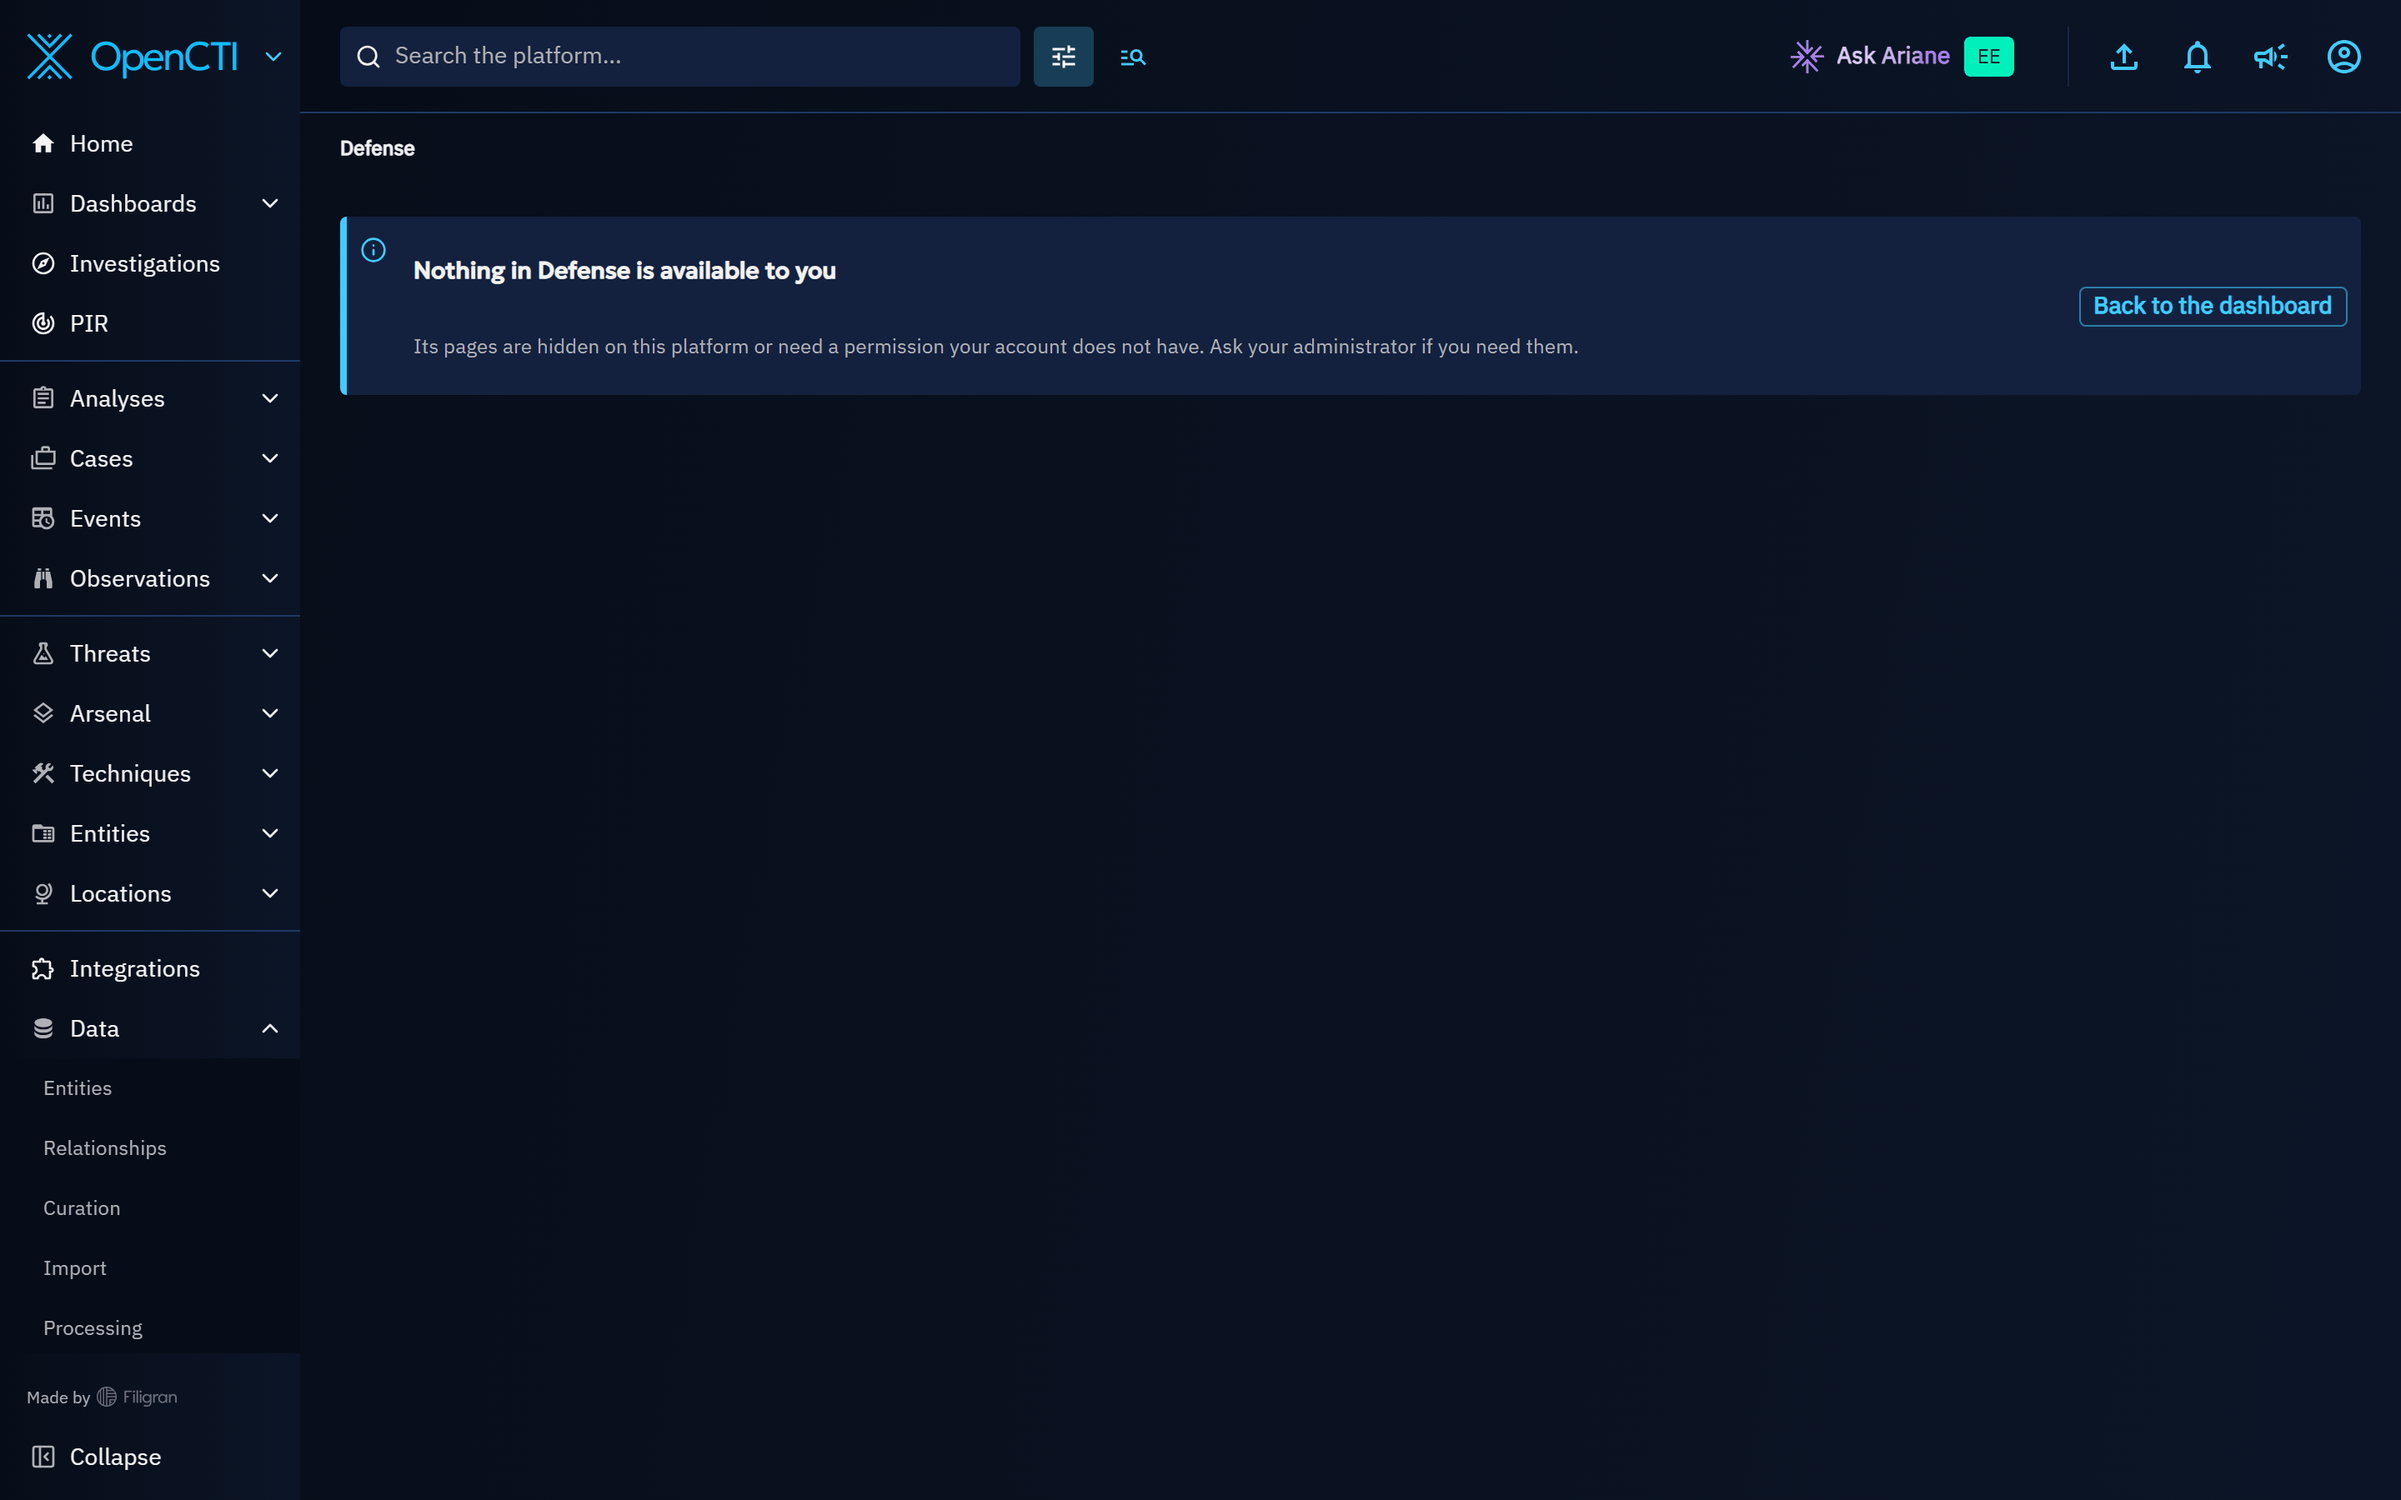
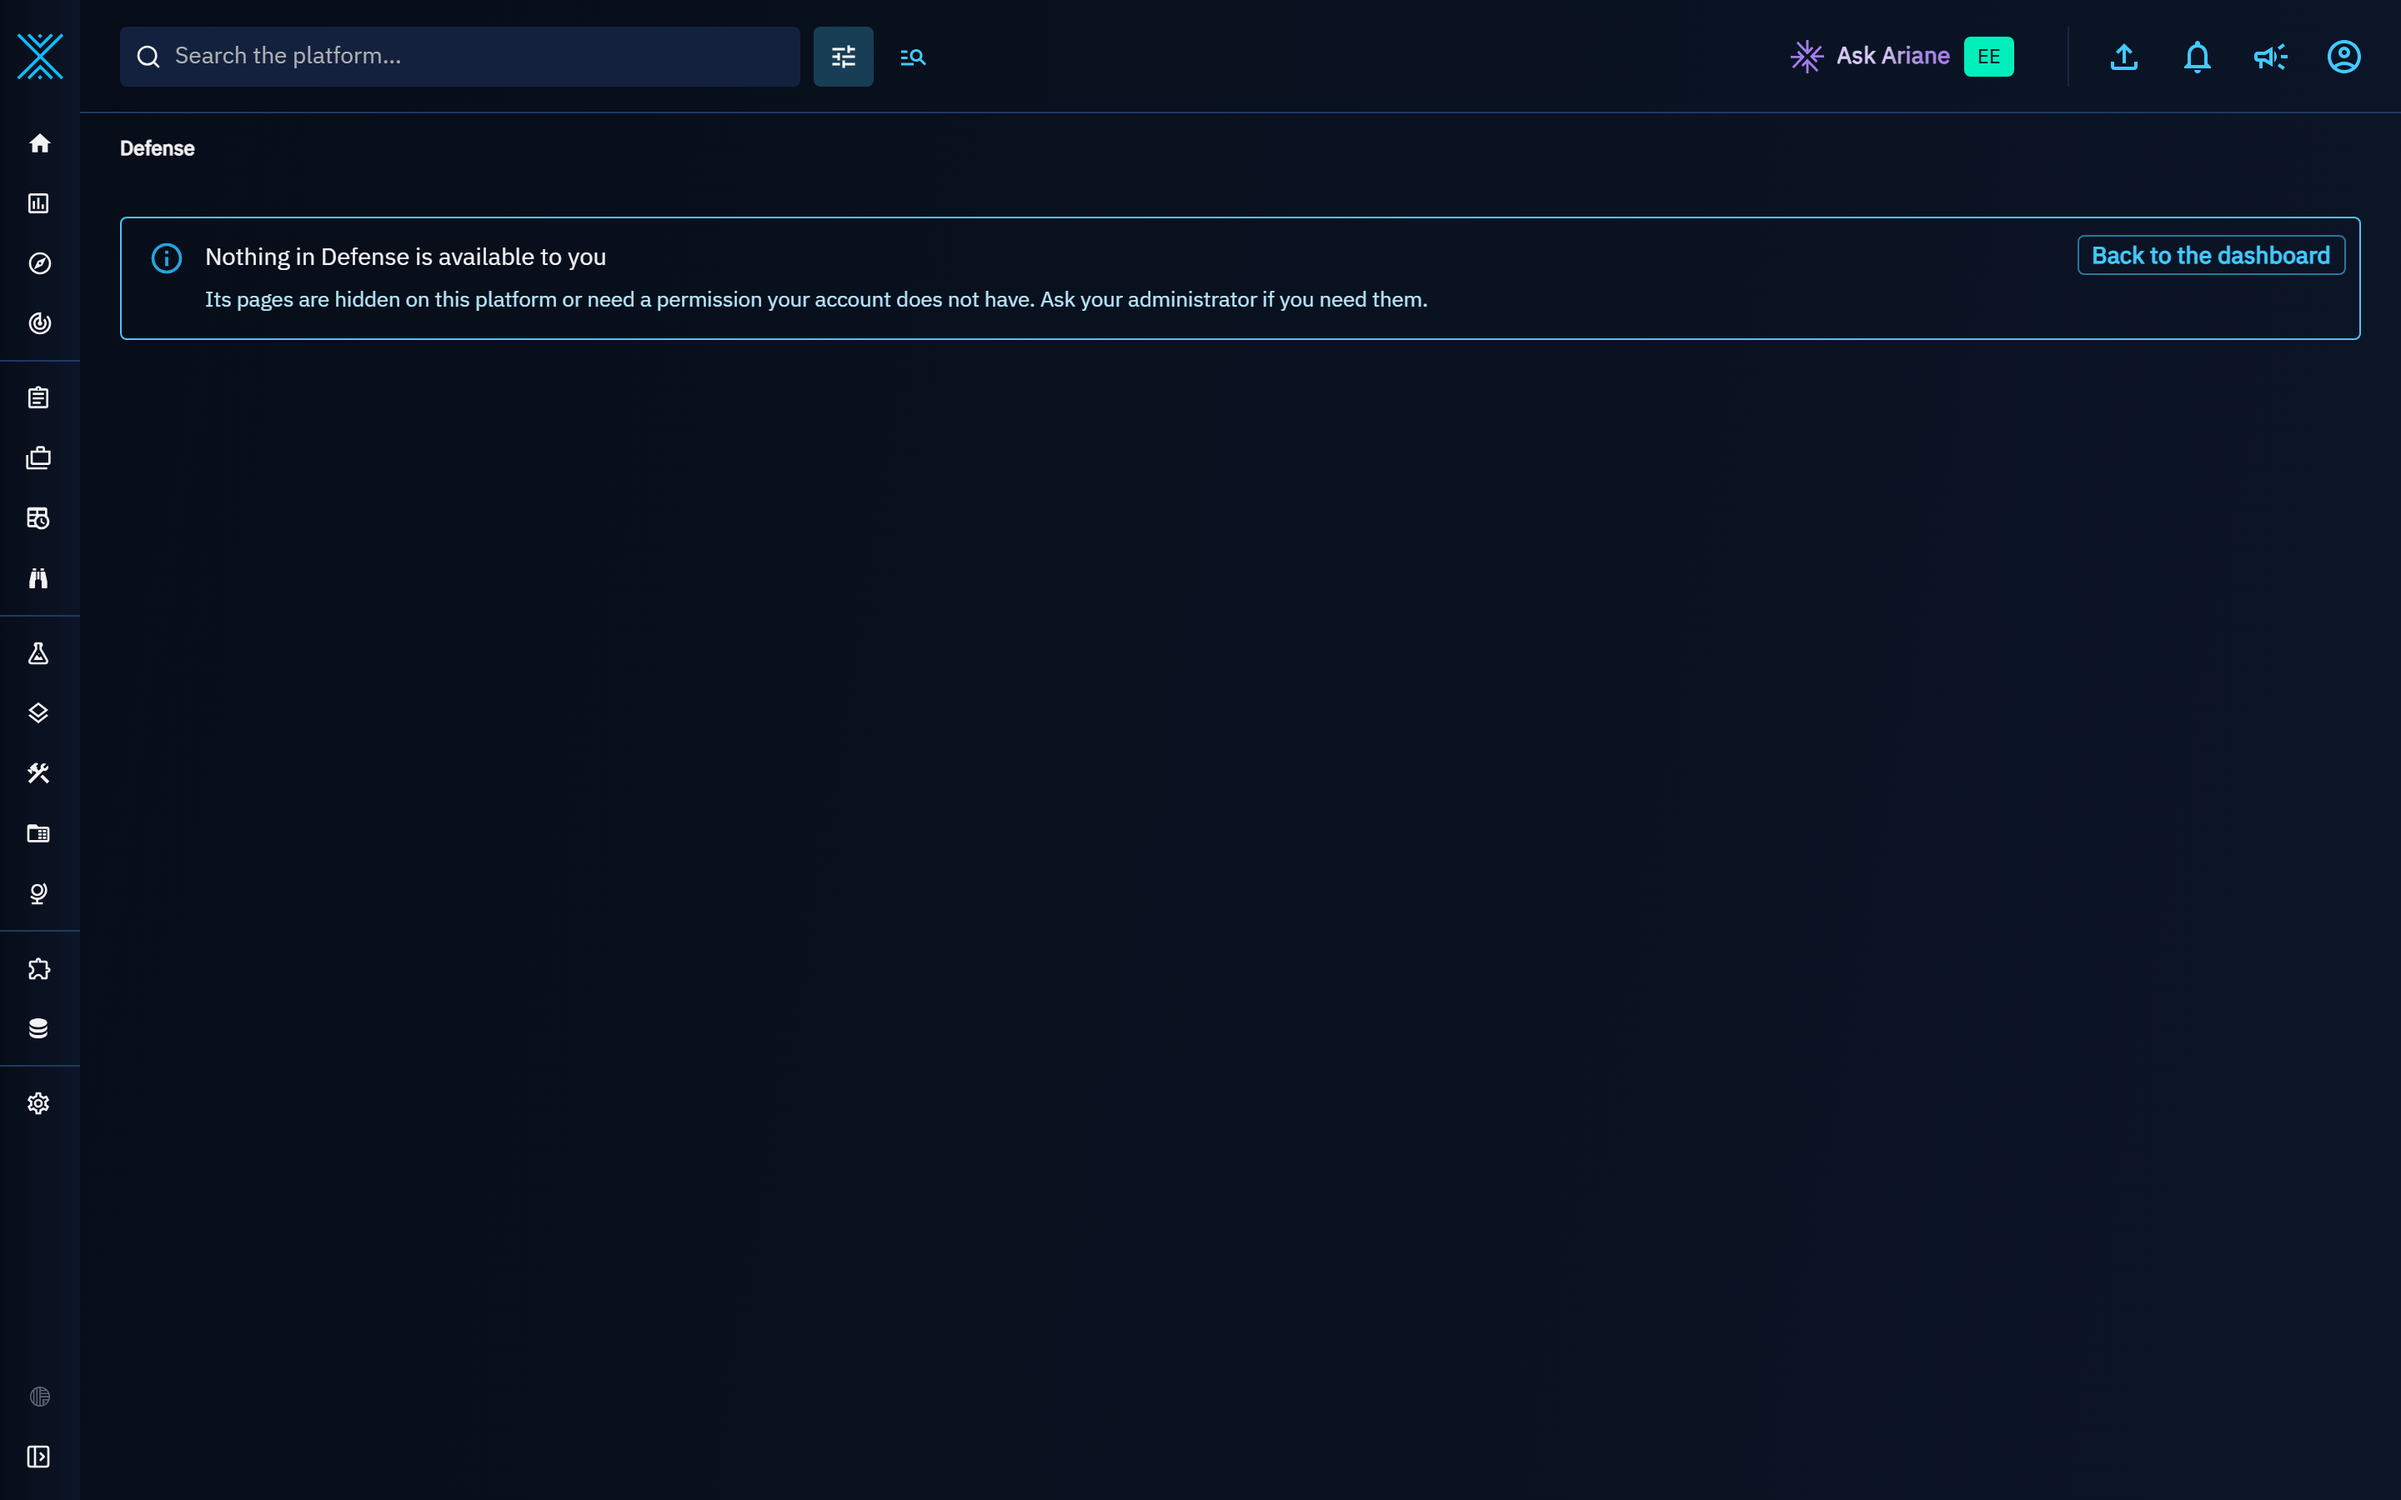
docs(provenance): screenshots of the provenance, Curation and Defense surfaces in both themes (#18676)
Sources card and panel, corroboration column, Conflicts and Stale knowledge tabs, backfill card, knowledge decay rules, hub navigation and the Defense no-access page, captured at 1440 x 900 (scale 2) with sample data, light theme variants in collapsible blocks. The documentation also states that knowledge decay rules only apply to tracked types.

diff --git a/docs/docs/usage/provenance.md b/docs/docs/usage/provenance.md
@@ -37,6 +37,8 @@ Assertions are recorded after deduplication, on the stored object. A source asse
 
     The provenance of the knowledge created before the upgrade is rebuilt in the background by the provenance backfill, from the history and the works of the platform, for the tracked entity types only. Its progress is visible in "Data > Processing > Tasks", where an administrator can also restart it, for instance after enabling provenance on a new type. Replays are idempotent: existing assertions are merged, never duplicated.
 
+    ![The Provenance backfill card of Data > Processing > Tasks, completed, with its Restart the backfill button](assets/provenance-backfill-card.png)
+
 ## Corroboration and freshness
 
 From the assertions, OpenCTI derives:
@@ -46,6 +48,8 @@ From the assertions, OpenCTI derives:
 - **Freshness**: the number of days since the last assertion.
 
 These values are available as columns, sorts and filters in the lists of entities and relationships ("Corroboration", "Last assertion date", "Freshness (days since last assertion)", "Single sourced", "Has source conflicts" and "Stale knowledge"). They can be used in triggers, retention policies, dashboards and CSV exports.
+
+![Data > Entities with the Corroboration column: APT29 asserted by 4 sources, Emotet and IcedID by 2, QakBot by a single source](assets/provenance-corroboration-list.png)
 
 In investigation graphs, nodes are surrounded by a ring whose width grows with their corroboration, and relationship labels show the number of sources between brackets.
 
@@ -57,6 +61,8 @@ The overview of the elements of a tracked type shows a "Sources" card. On the en
 - the five most recent sources, each with its kind, its first and last assertion dates and its confidence. A source links to the page that describes it when there is one, for instance the organization or individual of an author;
 - the fields on which sources disagree.
 
+![The Sources card of the intrusion set APT29: 4 sources, three connectors and the ACME CERT author, with their assertion dates and confidence, and the fields on which they disagree](assets/provenance-sources-card.png)
+
 When no source asserted the element yet, the widget says so; outside the overview layout, the card is not displayed.
 
 The "View all", "more sources" and "Review conflicts" buttons of the card open the sources panel, which lists:
@@ -66,6 +72,14 @@ The "View all", "more sources" and "Review conflicts" buttons of the card open t
 - **Procedures**: for `uses` relationships, the procedures described by each source (see below).
 
 The "Confirm still valid" button re-asserts the knowledge in your name. It adds or refreshes your own assertion and clears a stale flag.
+
+![The sources panel of APT29: the four sources with their kind, assertion dates, number of assertions and confidence, then the alternative values proposed for the description and the primary motivation, each with Adopt this value and Dismiss](assets/provenance-sources-panel.png)
+
+??? example "The same panel in the light theme"
+
+    ![The sources panel of APT29 in the light theme](assets/provenance-sources-panel-light.png)
+
+    ![The Sources card of APT29 in the light theme](assets/provenance-sources-card-light.png)
 
 ## Source conflicts
 
@@ -96,7 +110,17 @@ The "Data > Curation" hub gathers the data-quality views of the platform. Proven
 - **Conflicts**: the entities, relationships and sightings with source conflicts, with direct access to their sources panel to adopt or dismiss the alternative values.
 - **Stale knowledge**: the entities, relationships and sightings flagged as stale by a [knowledge decay rule](../administration/decay-rules.md#knowledge-decay-rules), with direct access to their sources panel to confirm them.
 
-Once the sources panel of a row is closed after a change, the list is refreshed: a row whose conflicts are all resolved, or which is confirmed, leaves the tab.
+Once the sources panel of a row is closed after a change, the list is refreshed: a row whose conflicts are all resolved, or which is confirmed, leaves the tab. Elements of a type whose provenance tracking is switched off are not listed.
+
+![The Conflicts tab of Data > Curation listing IcedID and APT29 with their conflicting fields, corroboration and freshness](assets/provenance-conflicts-tab.png)
+
+![The Stale knowledge tab of Data > Curation listing QakBot and IcedID, last asserted 75 days ago](assets/provenance-stale-knowledge-tab.png)
+
+??? example "The same tabs in the light theme"
+
+    ![The Conflicts tab in the light theme](assets/provenance-conflicts-tab-light.png)
+
+    ![The Stale knowledge tab in the light theme](assets/provenance-stale-knowledge-tab-light.png)
 
 ## Widgets
 

diff --git a/docs/docs/administration/decay-rules.md b/docs/docs/administration/decay-rules.md
@@ -134,6 +134,10 @@ Knowledge decay rules are configured in the "Knowledge decay rules" tab of the "
     - *Revoke*: the knowledge is flagged and revoked. This policy is only available for types supporting revocation.
 - **Order**: when several rules match the same knowledge, the rule with the highest order applies. A rule that is created, activated, reordered or retargeted above other rules takes over the knowledge they already flagged: it is evaluated again under the new rule.
 
+A rule only applies to the types whose [provenance is tracked](../usage/provenance.md#entity-types-tracked): the knowledge of a type whose tracking is switched off is never flagged, lowered or revoked.
+
+![The Knowledge decay rules tab listing a custom rule on Malware that currently flags two elements, and the three built-in rules, disabled](./assets/knowledge-decay-rules.png)
+
 Stale knowledge is listed in the "Stale knowledge" tab of "Data > Curation", can be filtered with the "Stale knowledge" filter in every list, and each rule shows the number of elements it currently flags. As soon as any source asserts the knowledge again, or a user confirms it from the sources panel, the stale flag is cleared. Deactivating, deleting or changing the targets of a rule clears the flags it set.
 
 Three built-in knowledge decay rules are shipped **disabled**: `communicates-with` relationships after 180 days, `uses` relationships after 24 months and infrastructures after one year. They can only be activated or deactivated: create your own rule to change their configuration.

diff --git a/docs/docs/usage/curation-hub.md b/docs/docs/usage/curation-hub.md
@@ -11,6 +11,10 @@ Other data-quality pages join the hub as new tabs when they become available, wi
 
 ![The Data menu expanded on Curation, with the Conflicts tab open under the breadcrumb Data, Curation, Conflicts](assets/curation-hub-conflicts-open.png)
 
+??? example "The same page in the light theme"
+
+    ![The Data menu expanded on Curation in the light theme, with the Conflicts tab open](assets/curation-hub-conflicts-open-light.png)
+
 ## When the entry is shown
 
 - **Curation** appears in the **Data** menu, right after **Relationships**, as soon as one of its tabs is available on your platform.

diff --git a/docs/docs/usage/defense-hub.md b/docs/docs/usage/defense-hub.md
@@ -28,6 +28,10 @@ Opening a link to Defense when none of its areas is available to you shows a pag
 
 ![The Defense page saying that nothing in Defense is available to the reader, with a button back to the dashboard](assets/defense-hub-no-access.png)
 
+??? example "The same page in the light theme"
+
+    ![The Defense no-access page in the light theme](assets/defense-hub-no-access-light.png)
+
 ## Related pages
 
 - [Security Coverage](security-coverage.md): the coverage of a security platform, also shown on the platform itself.
